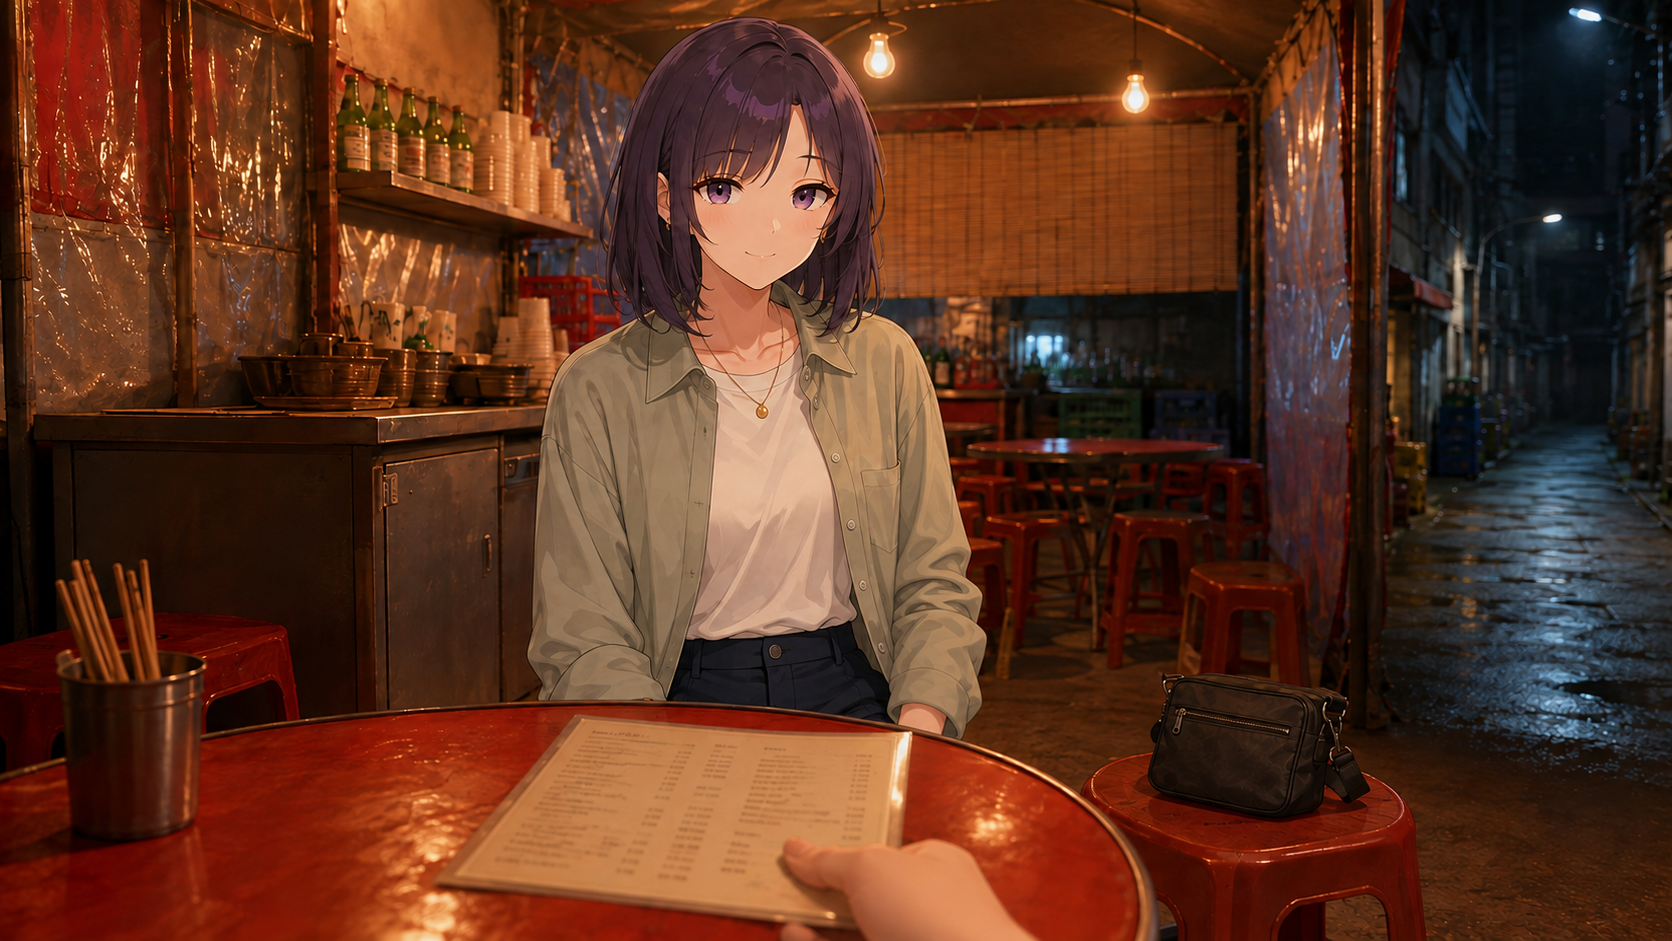
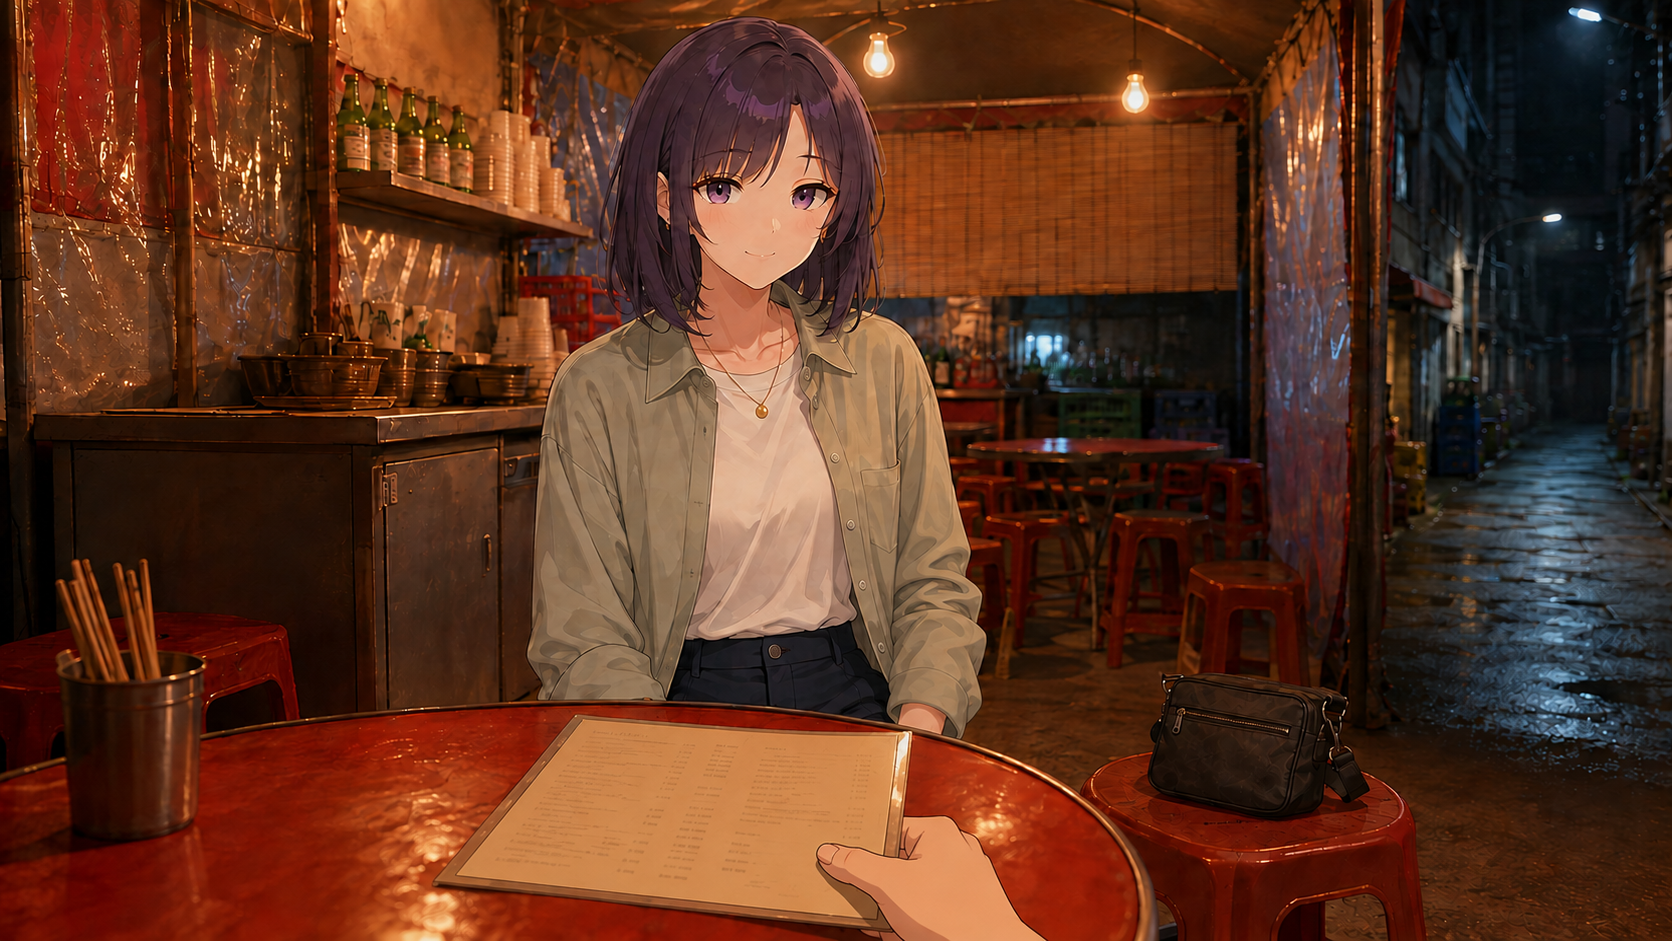
fix(story): quarantine realistic hand fallbacks

diff --git a/docs/DAY18_V4_HAND_STYLE_CORRECTION.md b/docs/DAY18_V4_HAND_STYLE_CORRECTION.md
@@ -24,6 +24,8 @@ DAY 18 손 포함 CG를 전수 육안 감사했다. `yuri-menu-wait-water-v1`, `
 
 2026-09-05 재노출 신고에서는 첨부 화면이 `yuri-menu-wait-water-v1.png`와 일치함을 확인했다. 소스가 이미 v2를 가리키더라도 캐시나 구버전 화면에서 혼동이 재발하지 않도록 전경 손의 외곽선과 2~3단계 셀 명암을 더 강제한 `yuri-menu-wait-water-v3.png`를 새 파일명으로 만들었다. 런타임·브리지·fixture·최상위 캐시 버전을 동시에 갱신하고 v1과 v2를 모두 런타임 금지 목록에 넣었다.
 
+후속 재발 방지에서는 런타임 경로 차단만으로는 오래 열린 탭·이전 저장·중간 캐시가 반려 URL을 재요청할 수 있다고 판단했다. 위 표의 반려 v1 파일과 유리 물 장면 v2 파일을 각각의 승인 v2/v3 비트맵과 바이트 단위로 동일하게 격리 교체했다. 현재 런타임은 여전히 새 버전 파일명만 참조하지만, 구버전 클라이언트가 과거 URL을 요청해도 실사 손 원본은 전달되지 않는다.
+
 모든 수정은 기존 구도·행동·소품을 보존하는 정밀 편집으로 진행했다. 공통 최종 프롬프트 계약은 `clean 2D anime cel-shaded visual-novel line art`, 단순화한 관절과 2~3단계 넓은 명암, 사진식 피부·모공·혈관·체모·서브서피스·젖은 피부 하이라이트 금지다. imagegen 생성 원본은 Codex generated_images 보관 위치에 남겨 두고 프로젝트에는 승인된 버전 파일을 복사했다.
 
 재감사 4자산은 built-in imagegen의 `precise-object-edit`로 편집했다. 배경·구도·소품·스토리 행동은 보존하고 손·손목·소매 경계만 변경했으며, 각 손의 다섯 손가락·관절·소품 접촉을 별도 확인했다. 생성 원본은 각각 `exec-3fae9045-575e-4d79-a880-2874bcb70cd8.png`, `exec-c5cb230a-c823-4a58-ab39-2bf7a4f885b5.png`, `exec-ebd0d2b9-032a-4799-bb00-4ad760edb960.png`, `exec-b3699c4a-6115-448c-a3b0-b8d4bb3d3332.png`이며 프로젝트에는 대응하는 v2 파일로 복사했다.
@@ -33,6 +35,7 @@ DAY 18 손 포함 CG를 전수 육안 감사했다. `yuri-menu-wait-water-v1`, `
 - 유리 물 장면은 v3, 나머지 교체 자산은 위 v2를 참조한다.
 - 반려된 유리 물 v1·v2와 나머지 v1 이름은 실행 소스에 다시 들어갈 수 없다.
 - 자동 테스트는 모든 반려 파일명이 생성된 DAY18 세그먼트 어디에도 나타나지 않는지, 승인된 v3/v2 자산이 실제로 존재하는지 함께 검사한다.
+- 자동 테스트는 이미 배포된 반려 URL 10개가 대응 승인본과 바이트 단위로 동일한지도 검사한다.
 - 상세 재발 방지 규칙은 `docs/STORY_V4_IMAGE_STYLE_RULES.md`를 따른다.
 
 ## v3 실제 화면 재검증

diff --git a/docs/STORY_V4_IMAGE_STYLE_RULES.md b/docs/STORY_V4_IMAGE_STYLE_RULES.md
@@ -15,6 +15,7 @@
 9. 한 번 반려된 파일명은 런타임 금지 목록으로 취급한다. 수정본 연결과 함께 자동 테스트가 실행 소스 전체에서 반려 파일명을 검색해야 하며, 자산·모듈·최상위 `game.js`의 캐시 버전을 동시에 올린다. 브라우저 캐시에 남은 구버전이 다시 보이면 수정 완료가 아니다.
 10. 승인자는 **손 실루엣을 먼저 확인한 뒤 100% 확대**에서 선화와 명암을 검사한다. 축소 화면에서 자연스럽다는 이유로 통과시키지 않으며, 확대했을 때 피부 경계가 선이 아니라 사진식 톤 변화로만 보이면 즉시 반려한다.
 11. 수정본은 기존 파일을 덮어쓰지 않고 반드시 **새 버전 파일명**으로 연결한다. 런타임 경로, 브리지 import, fixture import, 최상위 `game.js`의 캐시 버전을 같은 커밋에서 올리고 실제 브라우저가 새 URL을 요청하는지 확인한다.
+12. 이미 배포된 반려 파일이 사용자 화면에 재노출된 경우에는 일반 버전 보존 원칙보다 안전을 우선한다. 런타임은 계속 최신 버전 URL만 사용하되, 과거 런타임이나 저장 재개가 요청할 수 있는 **구버전 URL의 파일 내용도 승인본과 바이트 단위로 동일하게 격리 교체**한다. 자동 테스트는 모든 반려 URL과 대응 승인본의 바이트 동일성을 검사해야 하며, 구버전 URL에 실사 손 원본을 남겨 두지 않는다.
 
 ## 생성·편집 프롬프트 규칙
 
@@ -37,3 +38,4 @@
 6. QA 기록에는 `해부학 PASS`와 `화풍 PASS`를 따로 적는다. 둘 다 PASS여야 READY다.
 7. 배포 전 실제 브라우저에서 일반 진입과 저장 재개를 각각 확인하고, 개발자 도구의 실제 이미지 URL이 승인된 최신 버전인지 검사한다. 화면이 최신처럼 보여도 URL이 반려 버전이면 FAIL이다.
 8. 최종 캡처에서는 손만 따로 보지 않는다. 같은 프레임의 얼굴·의상 선화와 손의 외곽선 굵기, 피부 명암 단계, 질감 밀도를 나란히 비교하고 셋 중 하나라도 더 사실적으로 읽히면 `화풍 FAIL`로 기록한다.
+9. 현장 재노출 신고가 들어오면 화면과 자산을 해시·구도로 대조하고, 최신 런타임 URL뿐 아니라 같은 장면의 모든 과거 URL을 직접 요청해 검사한다. 하나라도 반려 비트맵을 반환하면 배포 불합격이다.
